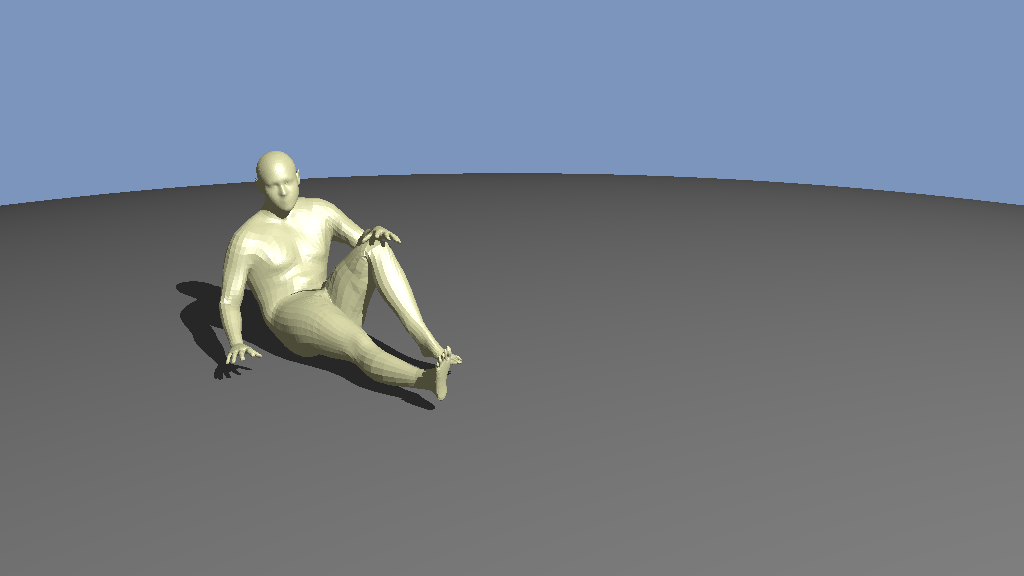
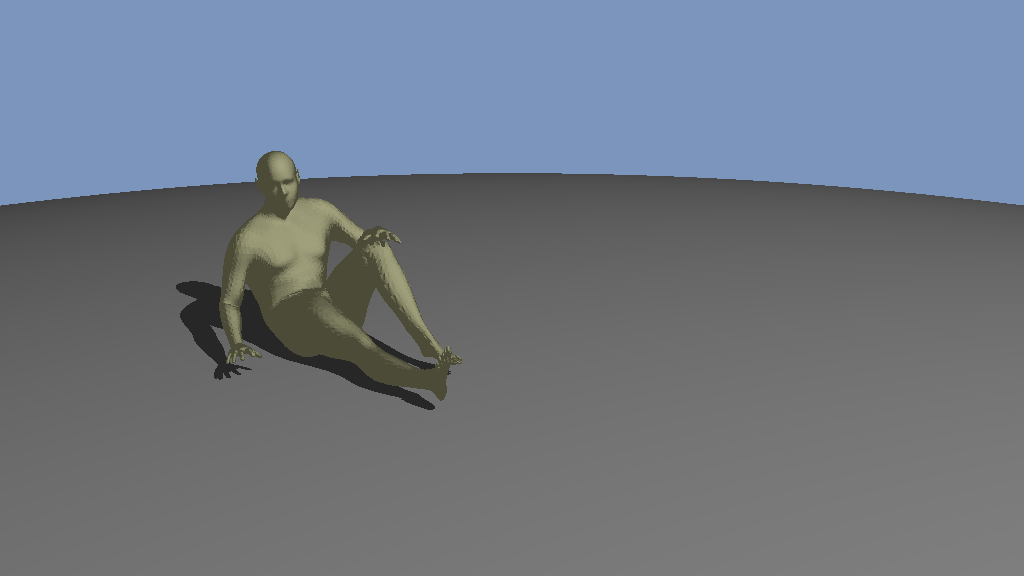
add triangle normal correction

Changed region(s): [[0.2188, 0.25, 0.4688, 0.6875]]

diff --git a/HumanShape.py b/HumanShape.py
@@ -3,18 +3,19 @@ import numpy as np
 from utils import *
 from ray import *
 from cli import render
-from Read_HS_obj import reformat_obj
+from Read_HS_obj import reformat_obj, read_hs_obj_normals,read_hs_obj_triangles
 
 tan = Material(vec([0.7, 0.7, 0.4]), 0.6)
 gray = Material(vec([0.2, 0.2, 0.2]))
 
 # Read the triangle mesh for a 2x2x2 cube, and scale it down to 1x1x1 to fit the scene.
 new_file_name = "temp_humanshape.obj"
-reformat_obj("humanshape.obj", new_file_name)
+# reformat_obj("humanshape.obj", new_file_name)
 
+vs_list = 0.001 * read_hs_obj_triangles(open("humanshape.obj"))
+vs_normal_list = read_hs_obj_normals(open("humanshape.obj"))
 
-
-vs_list = 0.001 * read_obj_triangles(open(new_file_name))
+# vs_list = 0.001 * read_obj_triangles(open(new_file_name))
 # vs_list = 0.001 * read_obj_triangles(open('hs-test3000.obj'))
 
 tranformation_matrix = np.zeros((4,4))
@@ -52,10 +53,34 @@ for tris in vs_list:
     p_2 = tris[2]
     p_2_h = np.array([[p_2[0]], [p_2[1]], [p_2[2]], [1]])
     new_p2_h = t_z.dot(tranformation_matrix.dot(p_2_h))
-    new_vs_list.append(np.array([[new_p0_h[0,0], new_p0_h[1,0], new_p0_h[2,0]],
-                                 [new_p1_h[0,0], new_p1_h[1,0], new_p1_h[2,0]],
-                                 [new_p2_h[0,0], new_p2_h[1,0], new_p2_h[2,0]]]))
+    # new_vs_list.append(np.array([[new_p0_h[0,0], new_p0_h[1,0], new_p0_h[2,0]],
+    #                              [new_p1_h[0,0], new_p1_h[1,0], new_p1_h[2,0]],
+    #                              [new_p2_h[0,0], new_p2_h[1,0], new_p2_h[2,0]]]))
+    new_vs_list.append(tris)
 
+new_vn_list = []
+for tris in vs_normal_list:
+    p_0 = tris[0]
+    p_0_h = np.array([[p_0[0]],[p_0[1]], [p_0[2]], [1]])
+    new_p0_h = t_z.dot(tranformation_matrix.dot(p_0_h))
+
+    p_1 = tris[1]
+    p_1_h = np.array([[p_1[0]], [p_1[1]], [p_1[2]], [1]])
+    new_p1_h = t_z.dot(tranformation_matrix.dot(p_1_h))
+
+    p_2 = tris[2]
+    p_2_h = np.array([[p_2[0]], [p_2[1]], [p_2[2]], [1]])
+    new_p2_h = t_z.dot(tranformation_matrix.dot(p_2_h))
+    # new_vn_list.append(np.array([[new_p0_h[0,0], new_p0_h[1,0], new_p0_h[2,0]],
+    #                              [new_p1_h[0,0], new_p1_h[1,0], new_p1_h[2,0]],
+    #                              [new_p2_h[0,0], new_p2_h[1,0], new_p2_h[2,0]]]))
+    new_vn_list.append(tris)
+
+
+tri_list = []
+
+for i in range(len(new_vs_list)):
+    tri_list.append(Triangle(new_vs_list[i],tan,new_vn_list[i],True))
 
 
 
@@ -63,11 +88,12 @@ scene = Scene(
     [
     # Make a big sphere for the floor
     Sphere(vec([0,-40,0]), 39.5, gray),
-] +
-              [
-    # Make triangle objects from the vertex coordinates
-    Triangle(vs, tan) for vs in new_vs_list
-])
+] +tri_list
+#               [
+#     # Make triangle objects from the vertex coordinates
+#     Triangle(vs, tan) for vs in new_vs_list
+# ]
+)
 
 lights = [
     PointLight(vec([12,10,7]), vec([300,300,300])),

diff --git a/Read_HS_obj.py b/Read_HS_obj.py
@@ -15,3 +15,91 @@ def reformat_obj(input_file, output_file):
         else:
             f_out.write(line)
     return
+
+
+def read_obj(f):
+    """Read a file in the Wavefront OBJ file format.
+
+    Argument is an open file.
+    Returns a tuple of NumPy arrays: (indices, positions, normals, uvs).
+    """
+
+    # position, normal, uv, and face data in the order they appear in the file
+    f_posns = []
+    f_normals = []
+    f_uvs = []
+    f_faces = []
+
+    # set of unique index combinations that appear in the file
+    verts = set()
+
+    # read file
+    for words in (line.split() for line in f.readlines()):
+        if words[0] == 'v':
+            f_posns.append([float(s) for s in words[1:]])
+        elif words[0] == 'vn':
+            f_normals.append([float(s) for s in words[1:]])
+        elif words[0] == 'vt':
+            f_uvs.append([float(s) for s in words[1:]])
+        elif words[0] == 'f':
+            f_faces.append(words[1:])
+            for w in words[1:]:
+                verts.add(w)
+
+    # there is one vertex for each unique index combo; number them
+    vertmap = dict((s, i) for (i, s) in enumerate(sorted(verts)))
+
+    # collate the vertex data for each vertex
+    posns = [None] * len(vertmap)
+    normals = [None] * len(vertmap)
+    uvs = [None] * len(vertmap)
+    for k, v in vertmap.items():
+        w = k.split('/')
+        posns[v] = f_posns[int(w[0]) - 1]
+        # if len(w) > 1 and w[1]:
+        #     uvs[v] = f_uvs[int(w[1]) - 1]
+        if len(w) > 2 and w[2]:
+            normals[v] = f_normals[int(w[2]) - 1]
+
+    # set up faces using our ordering
+    inds = [[vertmap[k] for k in f] for f in f_faces]
+
+    # convert all to NumPy arrays with the right datatypes
+    return (
+        np.array(inds, dtype=np.int32),
+        np.array(posns, dtype=np.float32),
+        np.array(normals, dtype=np.float32),
+        np.array(uvs, dtype=np.float32)
+    )
+
+
+def read_hs_obj_triangles(f):
+    """Read a file in the Wavefront OBJ file format and convert to separate triangles.
+
+    Argument is an open file.
+    Returns an array of shape (n, 3, 3) that has the 3D vertex positions of n triangles.
+    """
+
+    (i, p, n, t) = read_obj(f)
+    return p[i, :]
+
+def read_hs_obj_triangles(f):
+    """Read a file in the Wavefront OBJ file format and convert to separate triangles.
+
+    Argument is an open file.
+    Returns an array of shape (n, 3, 3) that has the 3D vertex positions of n triangles.
+    """
+
+    (i, p, n, t) = read_obj(f)
+    return p[i, :]
+
+
+def read_hs_obj_normals(f):
+    """Read a file in the Wavefront OBJ file format and convert to separate triangles.
+
+    Argument is an open file.
+    Returns an array of shape (n, 3, 3) that has the 3D vertex positions of n triangles.
+    """
+
+    (i, p, n, t) = read_obj(f)
+    return n[i, :]

diff --git a/ray.py b/ray.py
@@ -139,7 +139,7 @@ class Sphere:
 
 class Triangle:
 
-    def __init__(self, vs, material):
+    def __init__(self, vs, material, vn = np.zeros((3,3)), normal_correction=False):
         """Create a triangle from the given vertices.
 
         Parameters:
@@ -155,6 +155,8 @@ class Triangle:
         self.y_min = np.min([vs[0, 1], vs[1, 1], vs[2, 1]])
         self.z_max = np.max([vs[0, 2], vs[1, 2], vs[2, 2]])
         self.z_min = np.min([vs[0, 2], vs[1, 2], vs[2, 2]])
+        self.vn = vn
+        self.normal_correction =normal_correction
 
     def intersect(self, ray):
         """Computes the intersection between a ray and this triangle, if it exists.
@@ -185,7 +187,15 @@ class Triangle:
         if beta > 0 and gamma > 0 and beta + gamma < 1:
             if ray.start < t < ray.end:
                 intersection_pos = p + d * t
-                hit_norm = normalize_vec3(np.cross(c - a, b - a))
+                hit_norm = vec([0,0,0])
+                if self.normal_correction:
+                    a_norm = normalize_vec3(vec(self.vn[0]))
+                    b_norm = normalize_vec3(vec(self.vn[1]))
+                    c_norm = normalize_vec3(vec(self.vn[2]))
+                    hit_norm = normalize_vec3(a_norm+(b_norm-a_norm)*beta+(c_norm-a_norm)*gamma)
+
+                else:
+                    hit_norm = normalize_vec3(np.cross(c - a, b - a))
                 return Hit(t, intersection_pos, hit_norm, self.material)
 
         return no_hit
